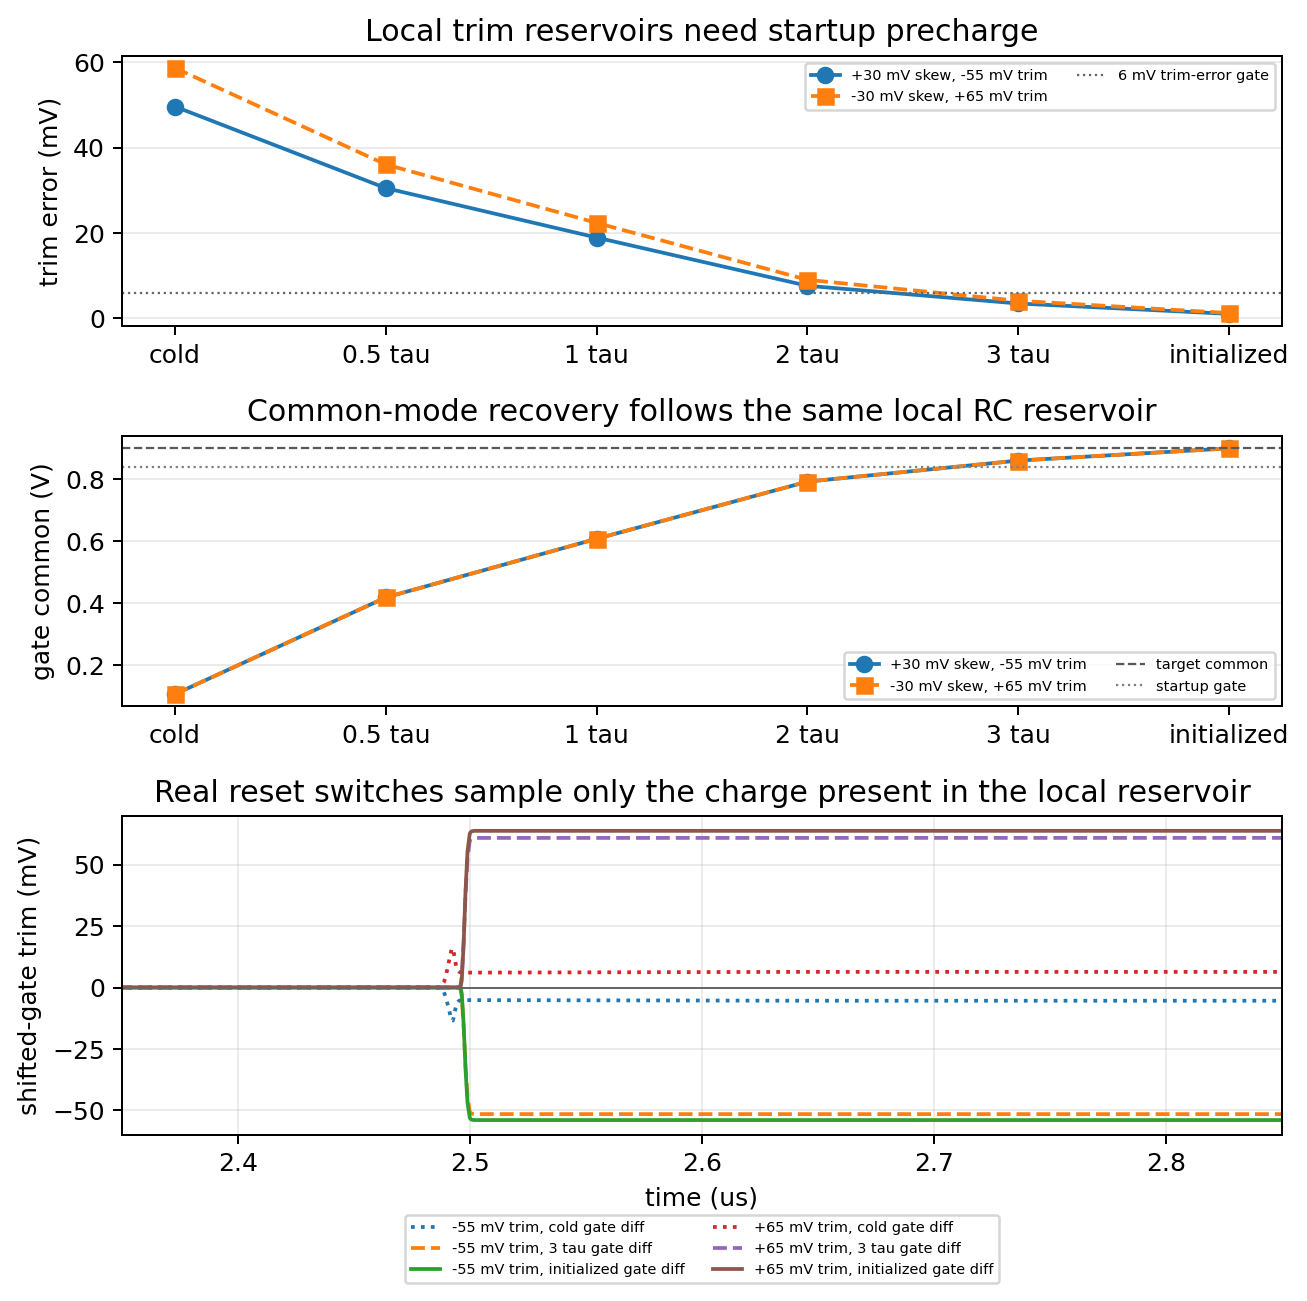
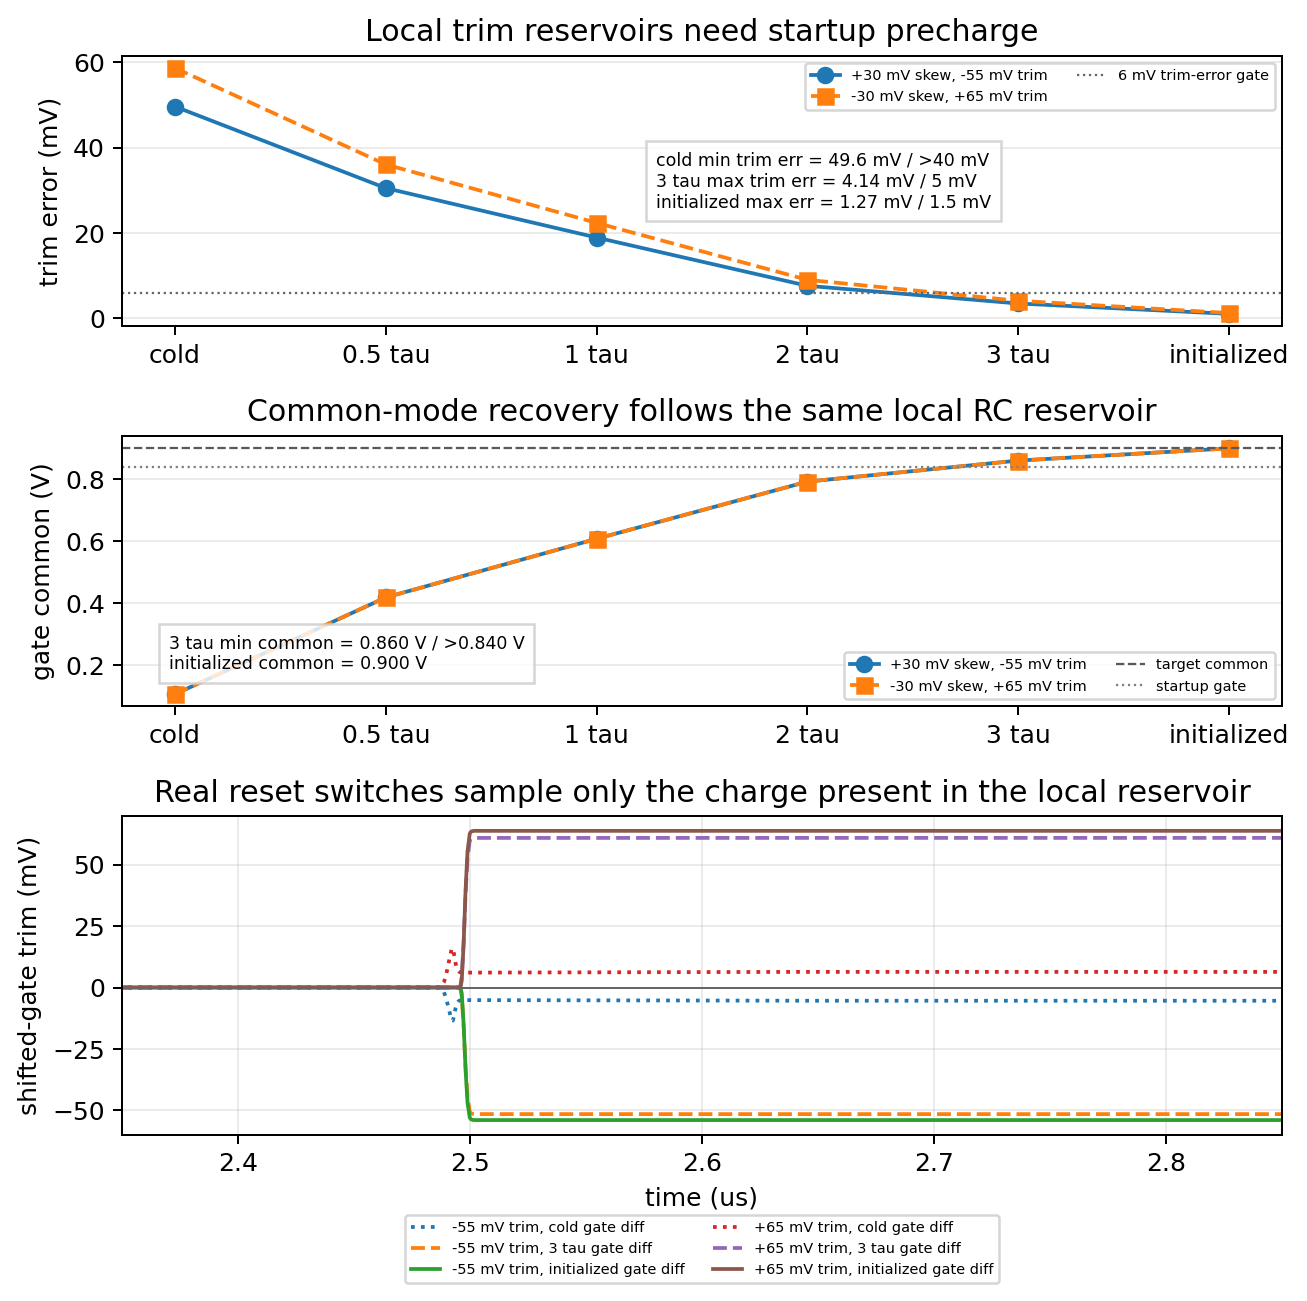
Annotate reset reference startup reservoirs

Changed region(s): [[0.4897, 0.0922, 0.7651, 0.1845], [0.1224, 0.4612, 0.3366, 0.5227], [0.3673, 0.4612, 0.3979, 0.4919]]

diff --git a/spice/run_mos_cell_characterization.py b/spice/run_mos_cell_characterization.py
@@ -15059,6 +15059,19 @@ quit
     shift_refz_startup_axes[0].set_ylabel("trim error (mV)")
     shift_refz_startup_axes[0].set_title("Local trim reservoirs need startup precharge")
     shift_refz_startup_axes[0].grid(True, axis="y", alpha=0.25)
+    shift_refz_startup_axes[0].text(
+        0.46,
+        0.44,
+        "cold min trim err = "
+        f"{1e3 * np.min(shift_refz_startup_trim_error[:, cold_idx]):.1f} mV / >40 mV\n"
+        "3 tau max trim err = "
+        f"{1e3 * np.max(shift_refz_startup_trim_error[:, tau3_idx]):.2f} mV / 5 mV\n"
+        "initialized max err = "
+        f"{1e3 * np.max(shift_refz_startup_trim_error[:, initialized_idx]):.2f} mV / 1.5 mV",
+        transform=shift_refz_startup_axes[0].transAxes,
+        fontsize="x-small",
+        bbox={"facecolor": "white", "alpha": 0.82, "edgecolor": "0.8"},
+    )
     shift_refz_startup_axes[0].legend(loc="upper right", ncol=2, fontsize="xx-small")
     for branch_idx, (_branch_name, branch_label, _nfp, _nfm, _trim) in enumerate(shift_reset_branch_specs):
         marker = "o-" if branch_idx == 0 else "s--"
@@ -15075,6 +15088,17 @@ quit
     shift_refz_startup_axes[1].set_ylabel("gate common (V)")
     shift_refz_startup_axes[1].set_title("Common-mode recovery follows the same local RC reservoir")
     shift_refz_startup_axes[1].grid(True, axis="y", alpha=0.25)
+    shift_refz_startup_axes[1].text(
+        0.04,
+        0.14,
+        "3 tau min common = "
+        f"{np.min(shift_refz_startup_gate_common[:, tau3_idx]):.3f} V / >0.840 V\n"
+        "initialized common = "
+        f"{np.mean(shift_refz_startup_gate_common[:, initialized_idx]):.3f} V",
+        transform=shift_refz_startup_axes[1].transAxes,
+        fontsize="x-small",
+        bbox={"facecolor": "white", "alpha": 0.82, "edgecolor": "0.8"},
+    )
     shift_refz_startup_axes[1].legend(loc="lower right", ncol=2, fontsize="xx-small")
     for branch_label, case_label, srt, ref_diff, gate_diff, gate_common in shift_refz_startup_traces:
         if case_label == "cold":

diff --git a/engineering_log.md b/engineering_log.md
@@ -2,6 +2,18 @@
 
 ## 2026-05-25
 
+- Clarified the shifted-gate reset-reference startup reservoir plot.  The
+  ngspice deck models cold \(250\) pF local trim-reference reservoirs behind
+  \(100\)k sources and already asserted that cold reservoirs visibly
+  under-deliver split trim, startup error improves monotonically with
+  reservoir precharge, three RC time constants recover trim below \(5\) mV
+  while restoring enough common mode, and initialized reservoirs recover the
+  earlier decoupled accuracy.  The regenerated
+  `mos_hidden_writer_restored_gate_hybrid_update_forward_guard_forward_pair_96u_shifted_gate_reset_ref_startup_ngspice`
+  plot now labels those measured margins: cold minimum trim error \(49.6\)
+  mV, three-tau maximum trim error \(4.14\) mV, initialized maximum trim error
+  \(1.27\) mV, three-tau minimum common mode \(0.860\) V, and initialized
+  common mode \(0.900\) V.
 - Clarified the shifted-gate first-reset width recovery plot.  The ngspice
   deck sweeps first-reset aperture for \(10\)k and \(100\)k trim-source
   impedances and already asserted monotonic \(10\)k trim-error improvement,
